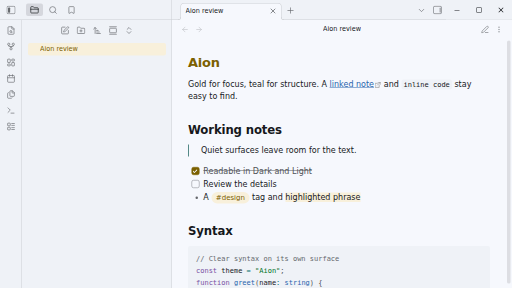
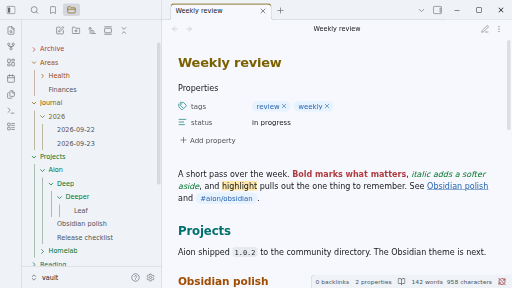
Document and capture Obsidian colour acceptance

diff --git a/docs/superpowers/plans/2026-09-23-obsidian-colour.md b/docs/superpowers/plans/2026-09-23-obsidian-colour.md
@@ -10,6 +10,8 @@
 
 **Spec:** `docs/superpowers/specs/2026-09-23-obsidian-colour-design.md` (review: `docs/superpowers/specs/2026-09-23-obsidian-colour-design-review.md`). The measured prototype the spec's native verification ran against is `/tmp/aion-colour-proposal/vault/.obsidian/snippets/aion-proposal.css` and `aion-spacing.css`; every selector below is copied from it.
 
+**Implementation decision:** Heading and emphasis colours in Light callouts may fall below 4.5:1, including in a single callout. The Task 1 test sketch and Task 6 README wording below predate this decision. Keep their page and selection contrast checks, and keep the Dark single-callout check; measure and report Light single-callout ratios without failing them at 4.5:1.
+
 ## Global Constraints
 
 - Never type a hex value. Every colour comes from `@sltsh/aion-css` via `c('<name>')`, or from a `var(--…)` reference to a variable the theme already sets.
@@ -21,13 +23,13 @@
 - No `!important`, `@import` or `url(` in the sheet (existing test).
 - Font size, line height and line width stay the user's. Heading spacing is reading view only.
 - Open spec decisions are taken at the proposal's defaults: bold coral **and** italic green; rainbow folder order `coral → copper → gold → green → teal → blue`; headings and chrome marks do **not** follow the accent picker.
-- The contrast gate names its reading states: the page, the selection, and one callout of each colour. A callout nested in another is **outside** it: each 10% fill stacks, and in Light every accent (H1–H4, bold, italic) measures below 4.5:1 two levels deep (minimum 4.15, copper H3 in a quote callout inside a quote callout; primary text still passes). Dark stays above 4.5 (minimum 4.60). This is a spec-level limit, not the executor's to fix; the README and PLAN.md entries must state it, and no colour may change to hide it.
+- The contrast gate names its reading states: the page, the selection, and one callout of each colour in Dark. Light callout heading and emphasis colours are measured but exempt from the 4.5:1 floor. A callout nested in another is **outside** it: each 10% fill stacks, and in Light every accent (H1–H4, bold, italic) measures below 4.5:1 two levels deep (minimum 4.15, copper H3 in a quote callout inside a quote callout; primary text still passes). Dark stays above 4.5 (minimum 4.60). This is a spec-level limit, not the executor's to fix; the README and PLAN.md entries must state it, and no colour may change to hide it.
 - Work on `feature/obsidian-review-fixes` (or a branch cut from it), never `main`. Imperative commit messages.
 - `npm run build`, `npm run verify`, `npm test`, `npm run typecheck` and `npm run sync:design` are calculations. Native acceptance in Obsidian is recorded separately and a palette change makes it a calculation again.
 
 ## Review Focus
 
-1. **Emphasis and H3/H4 inside callouts and under selection.** Coral bold inside a gold question callout, or copper H3 under the Light selection, must still clear 4.5:1 — the spec only measured accents on the bare page. Pinned in Task 1 (every content accent against the page, the selection, and all eight single callout tints). Nested callouts are the documented exception in Global Constraints.
+1. **Emphasis and H3/H4 inside callouts and under selection.** Copper H3 under the Light selection must clear 4.5:1. Task 1 measures every content accent against the page, the selection, and all eight single callout tints; the Light callout ratios are reported under the implementation decision above. Nested callouts are the documented exception in Global Constraints.
 2. **Tags on a phone.** Obsidian's `.is-mobile.theme-dark { --tag-background: … }` outranks `.theme-dark`; a user on mobile would get Obsidian's accent mix. Pinned in Task 2 (the `.is-mobile` blocks exist with all four tag variables in both schemes).
 3. **Root files between folders, and an 8th folder.** A root-level file must not shift the cycle and the 7th folder must wrap to coral. Pinned in Task 3 (every cycle selector is `.nav-files-container > div > .nav-folder:nth-child(6n+k of .nav-folder)`, k = 1…6); the real vault check is in Task 7.
 4. **Dragging a coloured folder with a custom accent, and tapping one on a phone.** The first draft drew coral on the gold drag fill at 1.00:1. Pinned in Task 3 (folder rules never set `color`, and the chevron variable is withheld from `.is-selected`, `.is-being-dragged` and `.is-being-dragged-over`; the chevron is measured on the desktop hover row and on Obsidian's mobile tap row, which `.is-mobile.theme-dark` repaints as 15% white over the sidebar); the pointer drag with a custom accent is in Task 7.

diff --git a/packages/obsidian/README.md b/packages/obsidian/README.md
@@ -33,9 +33,23 @@ The theme maps Obsidian's documented variables for surfaces, controls, text, Mar
 code, navigation, tabs and dialogs. It does not ship fonts, images, scripts or remote
 imports. Your existing font and density settings remain in control.
 
+Headings run gold, teal, copper and violet from H1 to H4; H5 and H6 stay secondary text.
+Bold is coral and italic green, except inside a highlight, which keeps primary text in
+every mode. Tags are blue pills. In the file explorer each top-level folder takes the next
+of coral, copper, gold, green, teal and blue; the folders nested inside it, their
+chevrons and the indentation guide inherit it, and files stay neutral. The cycle follows
+Obsidian's sort, so renaming or reordering a folder can change its colour. Reading view
+grades the space above H3 and H4–H6 and balances callout padding.
+
+Heading and emphasis colours are checked on the page and under the selection. In Dark,
+they also clear 4.5:1 inside one callout of each colour. In Light, heading and emphasis
+colours inside a callout may fall below 4.5:1. Nested callouts stack tints and are outside
+the contrast gate in both modes.
+
 Obsidian's accent picker changes control accents such as buttons, checkboxes and accent
-text. Aion's headings, tags, active file background, caret, focus ring and highlights
-retain their authored palette roles when a custom accent is selected.
+text. Aion's headings, tags, folder colours, the gold tab and ribbon marks, the active
+file background, caret, focus ring and highlights keep their palette roles when a custom
+accent is selected.
 Custom accent colours are supplied by Obsidian and are outside Aion's contrast gate.
 
 ## Build and release
@@ -46,11 +60,9 @@ test suite checks that the committed CSS matches its generator, both variants co
 the same keys, and selected reading and focus pairs clear their contrast floors.
 
 The repository-root manifest and stylesheet were published in the 1.0.2 Obsidian release.
-The screenshots above were captured directly from Obsidian 1.13.7 with an
-isolated local vault. Desktop reading, live preview, and source mode were checked in both
-modes; Dark in-note search, file menus, and the command dialog were also checked. The
-built-in phone emulator showed both variants in reading and Source mode, Dark Live Preview
-and note menu, Light navigation, and Appearance settings in both variants. Android and iOS
-hardware remain unchecked.
+The screenshots above show the unreleased colour and spacing changes, captured from the
+built sheet in an isolated Obsidian 1.13.7 vault. Desktop reading, Live Preview and Source
+mode were checked in both variants; the built-in phone emulator showed blue tags and
+property pills at 390px. Android and iOS hardware remain unchecked.
 The [Obsidian submission guide](https://docs.obsidian.md/themes/app-themes/submit-theme)
 also requires a community listing submission after the GitHub release.

diff --git a/docs/superpowers/specs/2026-09-23-obsidian-colour-design.md b/docs/superpowers/specs/2026-09-23-obsidian-colour-design.md
@@ -1,8 +1,8 @@
 # Obsidian: more colour, same Aion — design proposal
 
-Status: **proposal, revised after [review](2026-09-23-obsidian-colour-design-review.md).**
-Nothing here has changed `packages/obsidian` or the shipped `theme.css`. The captures
-below are Obsidian 1.13.7 on Linux (Xvfb, 1024×800, reading view) rendering the current
+Status: **implemented** on `feature/obsidian-review-fixes` from the
+[plan](../plans/2026-09-23-obsidian-colour.md), after [review](2026-09-23-obsidian-colour-design-review.md).
+The captures below are Obsidian 1.13.7 on Linux (Xvfb, 1024×800, reading view) rendering the pre-implementation
 `theme.css` plus a prototype CSS snippet generated from `@sltsh/aion-css`. They are native
 renders of a prototype, not of a shipped build. The captures predate the review
 revisions, which change states and edge cases that a static capture does not show: hover,
@@ -266,6 +266,10 @@ the user's font and density settings stay in control.
 
 Calculated with `contrastEmitted` on the emitted hex. Callout titles are composited with
 `compositeEmitted` at Obsidian's 10% fill. These are calculations, not native acceptance.
+The implementation accepts heading and emphasis colours below 4.5:1 inside a Light
+callout, including a single callout. The page and selection remain gated at 4.5:1;
+Dark single callouts remain gated too. Nested callouts stack tints and are outside the
+contrast gate in both modes.
 
 | Pair | Dark (min) | Light (min) |
 |---|---|---|
@@ -331,14 +335,11 @@ All of this lives in `packages/obsidian/src/theme.ts`; no token changes and no n
   and nested callouts at a narrow width in reading view and Live Preview; the phone
   emulator for the mobile tag block.
 - Then `npm run build`, `npm run verify`, `npm test`, `npm run typecheck`,
-  `npm run sync:design`, re-capture `screenshots/obsidian-*.png`. Update the Obsidian
-  README, which currently says headings and tags keep "authored palette roles", and add a
-  CHANGELOG entry.
+  `npm run sync:design`, re-capture `screenshots/obsidian-*.png`, and update the Obsidian
+  README and CHANGELOG.
 
-## Open for your review
+## Implementation decisions
 
-1. Bold coral + italic green, or bold only?
-2. Explorer cycle order: rainbow (proposed) or maximum-contrast neighbours
-   (e.g. coral, teal, gold, blue, copper, green)?
-3. Should the Obsidian accent picker also recolour the heading ladder and the new gold
-   chrome marks, or should both stay fixed palette roles like today's headings?
+1. Bold is coral and italic is green.
+2. The explorer cycle is coral, copper, gold, green, teal, blue.
+3. Headings and gold chrome marks keep fixed palette roles when the accent picker changes.

diff --git a/PLAN.md b/PLAN.md
@@ -353,6 +353,33 @@ border without changing decorative dividers, and hovered buttons use a neutral
 edge solved against their hover fill. Focused tests measure the emitted pairs;
 Obsidian 1.13.7 computed styles confirmed both modes in a scratch vault.
 
+### 2026-09-23 colour and spacing
+
+The Obsidian colour proposal (`docs/superpowers/specs/2026-09-23-obsidian-colour-design.md`)
+is generated from `packages/obsidian/src/theme.ts` at the proposal's defaults. Focused
+tests measure every content accent on the page, the selection and all eight single
+callout tints. Light heading and emphasis colours inside callouts are an accepted
+exception to the 4.5:1 floor, including a single callout; Dark single callouts remain
+gated. The current Light single-callout minimum is 4.78:1 (copper H3 in a quote
+callout). Nested callouts stack tints and remain outside the gate. Tests also cover folder
+accents on the sidebar and their chevrons on the hover row, tags and tag hover, gold
+chrome marks and primary text on the highlight. `npm run build`, `npm run sync:design`,
+`npm run verify` (1,024 pass), `npm test` (343 pass), and `npm run typecheck` passed.
+
+Obsidian 1.13.7 on Linux rendered the built sheet in an isolated vault with the proposal
+snippets disabled. Computed styles confirmed content colours, tags, highlights in reading
+view, Live Preview and Source mode, folder states, the gold tab edge and status border in
+Dark and Light. A real pointer drag gave Obsidian's own dragged-row text and chevron under
+the default accent and custom blue set through Obsidian's accent API; the picker control
+itself was not clicked. Eight top-level folders with root files wrapped the seventh and
+eighth to coral and copper. Wrapped, collapsible, list-ending, title-only and nested
+callouts kept their icons on the first line, 12px bottom padding and an 8px first-block
+margin in reading view and Live Preview, including a nested-first callout. The phone
+emulator at 390px showed blue tag and property-pill fills in both schemes. The four
+screenshots in `screenshots/` are captures of this built sheet. A real phone, other
+platforms, and the picker interaction remain unchecked; these native checks do not
+expand the calculated contrast gate.
+
 ## Order and parallelism
 
 Tasks 1 to 11 are done.

diff --git a/CHANGELOG.md b/CHANGELOG.md
@@ -5,6 +5,19 @@ the versions follow Semantic Versioning.
 
 ## Unreleased
 
+### Changed
+
+- Obsidian: H3 is copper and H4 violet; bold is coral and italic green, and highlighted
+  text stays primary in reading view, Live Preview and Source mode. Tags are blue pills,
+  on mobile as well, and the question callout is gold so it no longer matches warning.
+- Obsidian: each top-level folder in the file explorer takes one of six accents, carried
+  by its subtree and its indentation guide. The active tab, the active side-panel icon
+  and a hovered ribbon icon carry a gold mark, property icons are teal and the status bar
+  has a hairline.
+- Obsidian: reading view grades the space above H3 and H4–H6, callouts lose the extra
+  space after their last block, and callout icons centre on the title's capitals where
+  the browser supports `text-box`.
+
 ## 1.0.2
 
 ### Added
